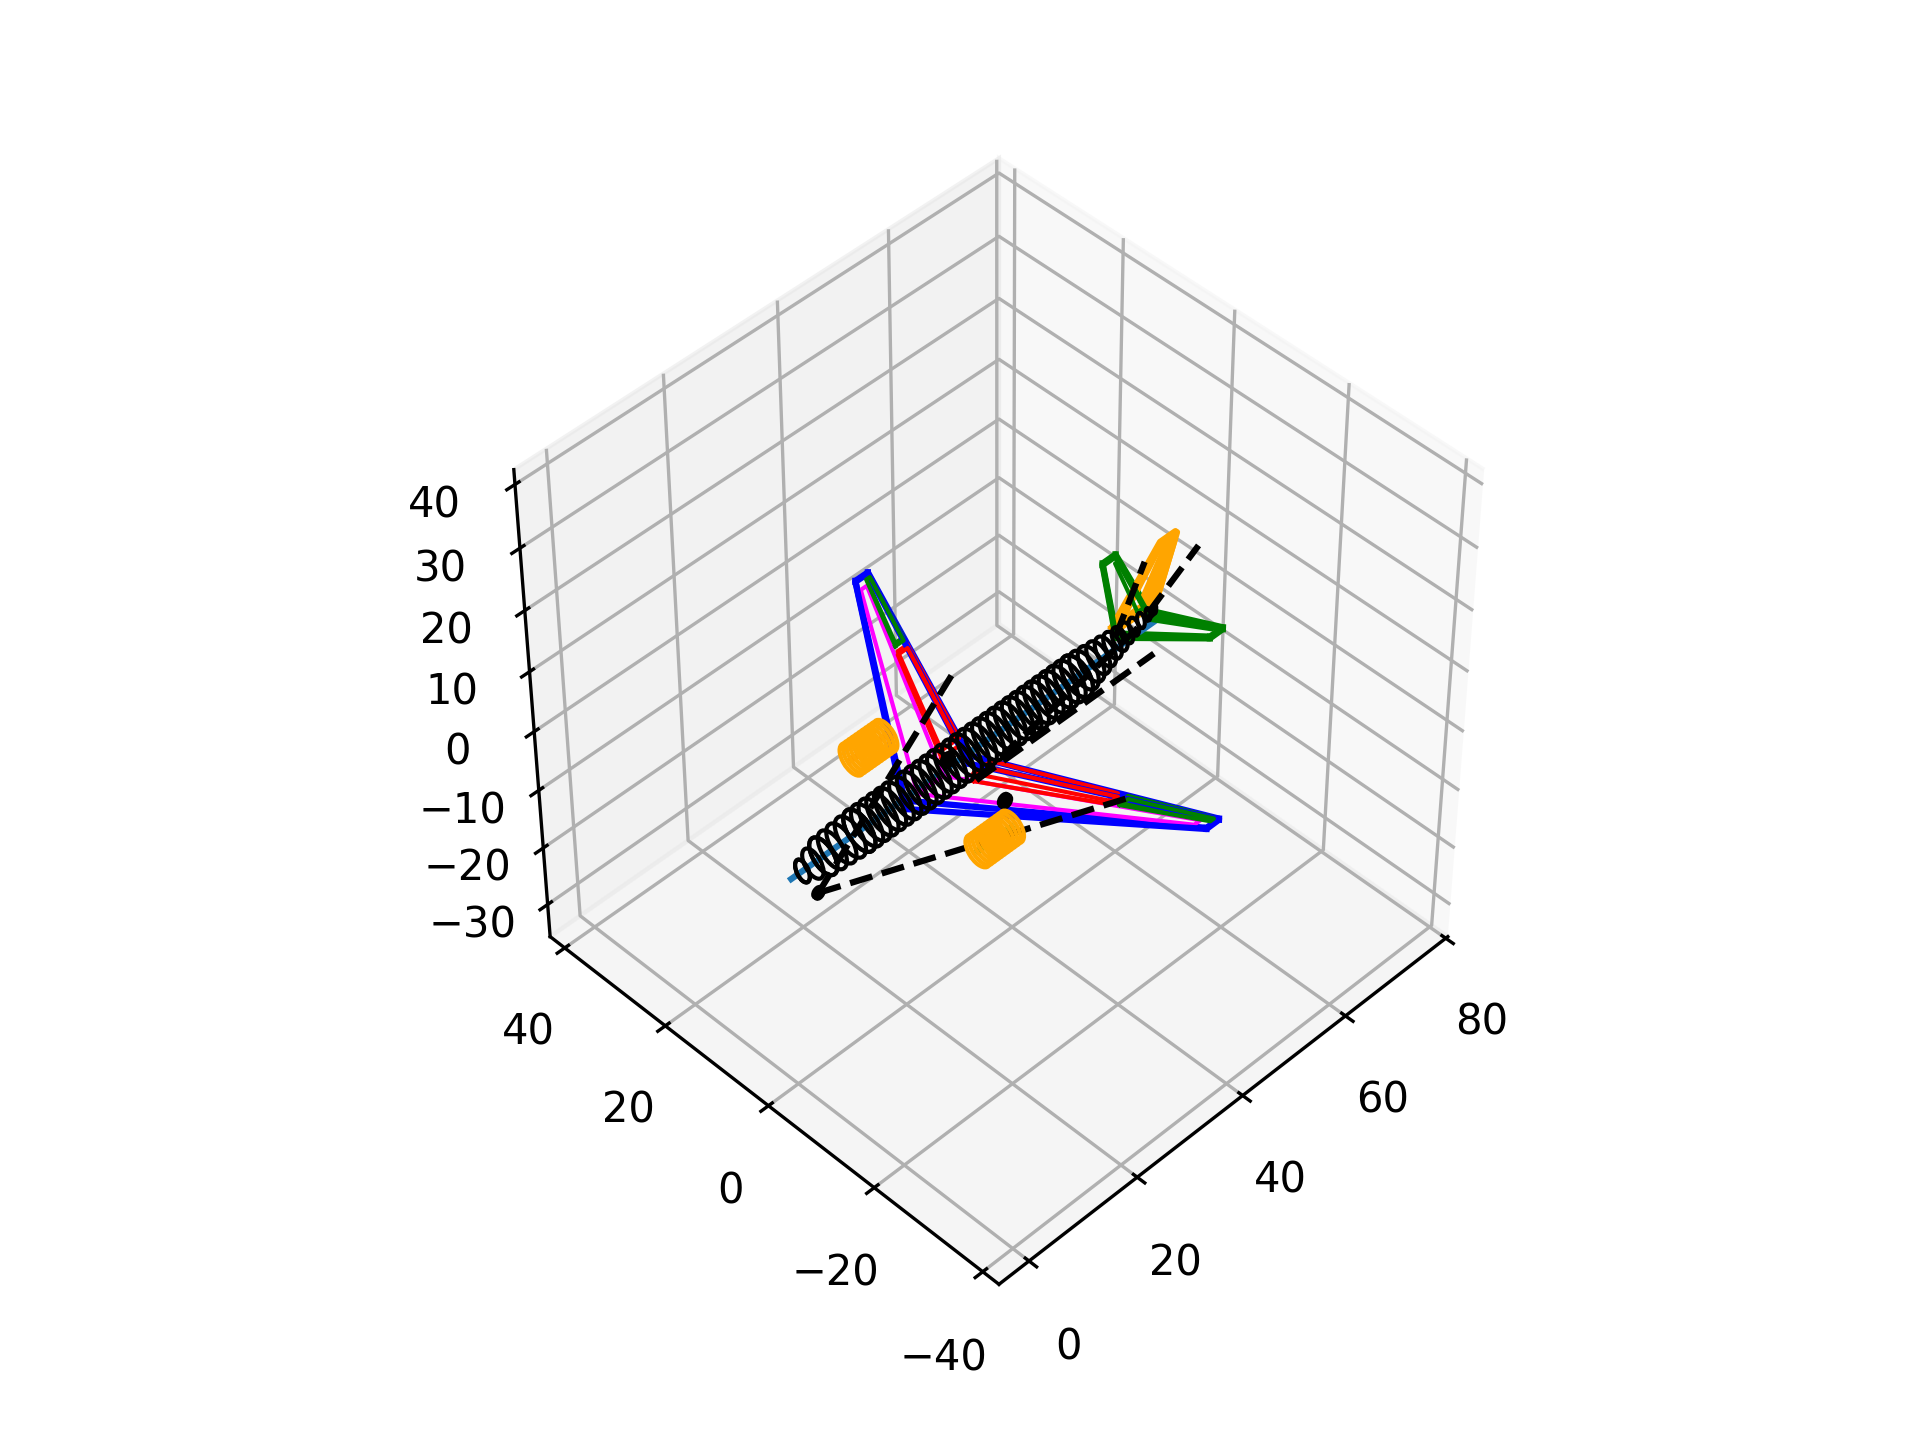
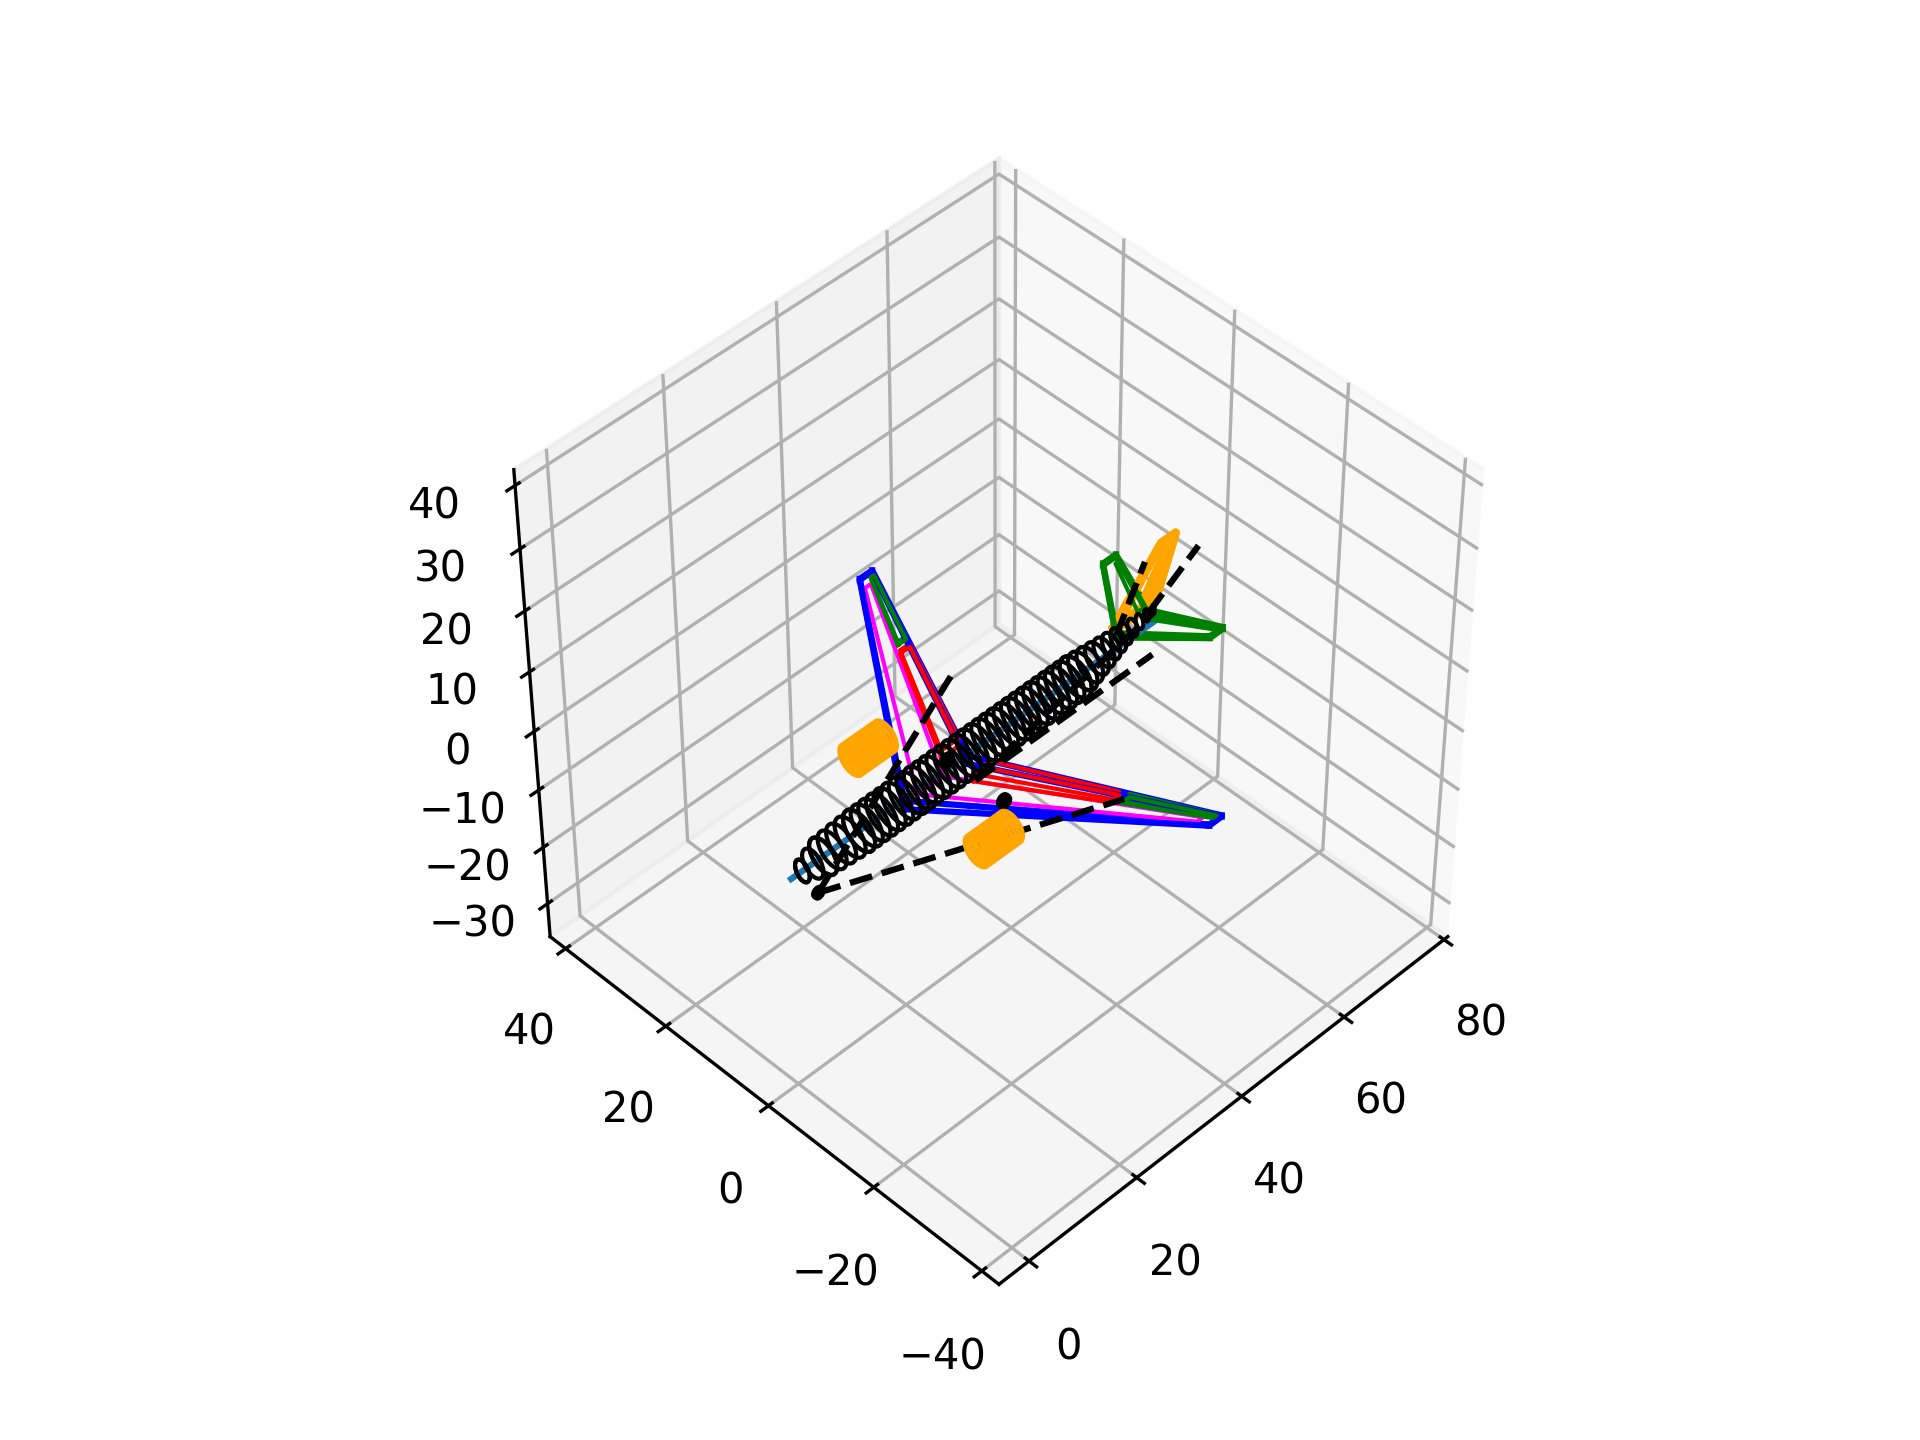
Mudei o k_korn de 0,93 para 0,95, e o enflechamento de 31,92° para 34°

diff --git a/designTool/W0_test_script.py b/designTool/W0_test_script.py
@@ -1,166 +1,156 @@
-# Sample script on how to use the weight function from designTool.
-# Remember to save this script in the same directory as designTool.py
+# Script de estimativa de peso W0 para a aeronave de projeto.
 
 # IMPORTS
 from designTool.standard_airplane import standard_airplane
 from designTool.geometry import geometry
 from designTool.weight import weight
-from designTool.constants import gravity
+from designTool.constants import gravity, nm2m, ft2m
 import numpy as np
-import pprint
 
-# Load a sample case already defined in designTools.py:
+# Load airplane
 airplane = standard_airplane('my_airplane')
 
 # Execute the geometry function
 geometry(airplane)
 
 # Guess values for initial iteration
-W0_guess = 467500.00000000000000
-T0_guess = 140250.00000000000000
+W0_guess = 2746800.00000000000000
+T0_guess = 748840.00000000000000
 
 # Execute the weight estimation
 W0, W_empty, W_fuel, W_cruise = weight(W0_guess, T0_guess, airplane)
 
-# Print results: pesos em N e kgf arredondados (inteiros), % do W0 inteiro
-def _int_w(x):
-    return int(round(float(x)))
+# ============================================================
+# 1. DESCRICAO DA MISSAO
+# ============================================================
+inp = airplane['inputs']
 
-
-def _pct_w0_str(w_part, w0_ref):
-    return f"{100.0 * float(w_part) / float(w0_ref):.1f}"
-
-
-def _fmt_N_kgf_pct(W, W0_ref):
-    fw = float(W)
-    w0 = float(W0_ref)
-    w_n = _int_w(fw)
-    w_kgf = _int_w(fw / gravity)
-    return f"{w_n} N  ({w_kgf} kgf)  [{_pct_w0_str(fw, w0)}% do W0]"
-
-
-print("W0 = ", _fmt_N_kgf_pct(W0, W0))
-print("W_empty = ", _fmt_N_kgf_pct(W_empty, W0))
-print("W_fuel = ", _fmt_N_kgf_pct(W_fuel, W0))
-print("W_cruise = ", _fmt_N_kgf_pct(W_cruise, W0))
+print("=" * 70)
+print("  1. DESCRICAO DA MISSAO DE PROJETO")
+print("=" * 70)
 print()
-wempty_pesos_int = {
-    k: (_int_w(v) if k.startswith("W_") else v)
-    for k, v in airplane["empty_weight"].items()
+print("  Tipo de aeronave       : Transporte de passageiros")
+print("  Configuracao           : 320 assentos em 3 classes")
+print("  Peso por passageiro    : 100 kg (incluindo bagagem)")
+print("  Numero de motores      : %d" % inp['n_engines'])
+print()
+print("  --- Missao de Projeto ---")
+print("  Alcance de cruzeiro    : %.0f nmi" % (inp['range_cruise'] / nm2m))
+print("  Mach de cruzeiro       : %.2f" % inp['Mach_cruise'])
+print("  Altitude de cruzeiro   : %.0f ft (%.0f m)" % (inp['altitude_cruise'] / ft2m, inp['altitude_cruise']))
+print("  Mach maximo operacional: %.2f" % inp['Mach_maxcruise'])
+print("  Altitude max cruzeiro  : %.0f ft (%.0f m)" % (inp['altitude_maxcruise'] / ft2m, inp['altitude_maxcruise']))
+print()
+print("  --- Decolagem ---")
+print("  Comprimento de pista   : %.0f m" % inp['distance_takeoff'])
+print("  Altitude               : %.0f m (nivel do mar)" % inp['altitude_takeoff'])
+print("  Delta ISA              : %.1f C (condicoes ISA)" % inp['deltaISA_takeoff'])
+print()
+print("  --- Reservas ---")
+print("  Tempo de espera (loiter): %.0f min" % (inp['time_loiter'] / 60))
+print("  Altitude de loiter      : %.0f ft (%.0f m)" % (inp['altitude_loiter'] / ft2m, inp['altitude_loiter']))
+print("  Cruzeiro alternativo    : %.0f nmi" % (inp['range_altcruise'] / nm2m))
+print("  Mach alternativo        : %.2f" % inp['Mach_altcruise'])
+print("  Altitude alternativa    : %.0f m (%.0f ft)" % (inp['altitude_altcruise'], inp['altitude_altcruise'] / ft2m))
+print()
+print("  --- Pesos de Entrada ---")
+print("  W_payload (320x100 kg) : %.0f N (%.0f kg)" % (inp['W_payload'], inp['W_payload'] / gravity))
+print("  W_crew                 : %.0f N (%.0f kg)" % (inp['W_crew'], inp['W_crew'] / gravity))
+print()
+
+# ============================================================
+# 2. BREAKDOWN DE PESO
+# ============================================================
+ew = airplane['empty_weight']
+
+print("=" * 70)
+print("  2. BREAKDOWN DE PESO DA AERONAVE")
+print("=" * 70)
+print()
+print("  %-28s  %12s  %12s  %8s" % ("Componente", "Peso [N]", "Peso [kg]", "% MTOW"))
+print("  " + "-" * 64)
+
+components = [
+    ("Asa (W_w)", ew['W_w']),
+    ("Empenagem horizontal (W_h)", ew['W_h']),
+    ("Empenagem vertical (W_v)", ew['W_v']),
+    ("Fuselagem (W_f)", ew['W_f']),
+    ("Trem de nariz (W_nlg)", ew['W_nlg']),
+    ("Trem principal (W_mlg)", ew['W_mlg']),
+    ("Motores instalados (W_eng)", ew['W_eng']),
+    ("Demais sistemas (W_allelse)", ew['W_allelse']),
+]
+
+for name, val in components:
+    print("  %-28s  %12.1f  %12.1f  %7.2f%%" % (name, val, val / gravity, val / W0 * 100))
+
+print("  " + "-" * 64)
+print("  %-28s  %12.1f  %12.1f  %7.2f%%" % ("PESO VAZIO (W_empty)", W_empty, W_empty / gravity, W_empty / W0 * 100))
+print("  %-28s  %12.1f  %12.1f  %7.2f%%" % ("COMBUSTIVEL (W_fuel)", W_fuel, W_fuel / gravity, W_fuel / W0 * 100))
+print("  %-28s  %12.1f  %12.1f  %7.2f%%" % ("PAYLOAD (W_payload)", inp['W_payload'], inp['W_payload'] / gravity, inp['W_payload'] / W0 * 100))
+print("  %-28s  %12.1f  %12.1f  %7.2f%%" % ("TRIPULACAO (W_crew)", inp['W_crew'], inp['W_crew'] / gravity, inp['W_crew'] / W0 * 100))
+print("  " + "-" * 64)
+print("  %-28s  %12.1f  %12.1f  %7.2f%%" % ("MTOW (W0)", W0, W0 / gravity, 100.0))
+print()
+
+# ============================================================
+# 3. CONSUMO DE COMBUSTIVEL NAS ETAPAS DA MISSAO
+# ============================================================
+mf = airplane['fuel_weight']['Mf_hist']
+ld = airplane['fuel_weight']['LD_hist']
+tsfc = airplane['fuel_weight']['C_hist']
+trapped = airplane['fuel_weight']['trapped_fuel_factor']
+
+phases = ['start', 'taxi', 'takeoff', 'climb', 'cruise', 'descent', 'altcruise', 'loiter', 'landing']
+phase_names = {
+    'start': 'Partida dos motores',
+    'taxi': 'Taxi',
+    'takeoff': 'Decolagem',
+    'climb': 'Subida',
+    'cruise': 'Cruzeiro (8000 nmi)',
+    'descent': 'Descida',
+    'altcruise': 'Cruzeiro alternativo (200 nmi)',
+    'loiter': 'Espera / Loiter (45 min)',
+    'landing': 'Pouso',
 }
-print("Wempty_dict = " + pprint.pformat(wempty_pesos_int))
-w0f = float(W0)
-empty_w_kgf_pct = {
-    k: f"{_int_w(float(v) / gravity)} kgf  [{_pct_w0_str(v, w0f)}% do W0]"
-    for k, v in airplane["empty_weight"].items()
-    if k.startswith("W_")
-}
-print("Wempty_dict (componentes em kgf e % do W0) = " + pprint.pformat(empty_w_kgf_pct))
+
+print("=" * 70)
+print("  3. CONSUMO DE COMBUSTIVEL POR ETAPA DA MISSAO")
+print("=" * 70)
 print()
-fuel_w = airplane["fuel_weight"]
-# C_hist no modulo: 1/s; no terminal tambem 1/h (x 3600)
-c_hist_1_per_s = {k: float(v) for k, v in fuel_w["C_hist"].items()}
-wfuel_display = {
-    "Mf_hist": fuel_w["Mf_hist"],
-    "LD_hist": fuel_w["LD_hist"],
-    "C_hist (1/s)": c_hist_1_per_s,
-    "C_hist (1/h)": {k: v * 3600.0 for k, v in c_hist_1_per_s.items()},
-    "trapped_fuel_factor": fuel_w["trapped_fuel_factor"],
-}
-print(
-    "Wfuel_dict (C_hist original 1/s e equivalente 1/h) = "
-    + pprint.pformat(wfuel_display)
-)
+print("  Perfil da missao:")
+print("  partida -> taxi -> decolagem -> subida -> cruzeiro -> descida")
+print("          -> cruzeiro alternativo -> loiter -> pouso")
 print()
+print("  %-32s  %10s  %12s  %12s" % ("Etapa", "Mf", "W_inicio [kg]", "Comb. [kg]"))
+print("  " + "-" * 70)
 
-# Consumo de combustível por etapa a partir de Mf_hist (mesma ordem que em weight.py)
-MF_ORDER = (
-    "start",
-    "taxi",
-    "takeoff",
-    "climb",
-    "cruise",
-    "descent",
-    "altcruise",
-    "loiter",
-    "landing",
-)
+W_start = W0
+Mf_total = 1.0
 
+for phase in phases:
+    frac = mf[phase]
+    W_end = W_start * frac
+    fuel_burned = (W_start - W_end) / gravity
+    Mf_total *= frac
+    print("  %-32s  %10.6f  %12.1f  %12.1f" % (
+        phase_names[phase], frac, W_start / gravity, fuel_burned))
+    W_start = W_end
 
-def combustivel_por_etapa_kgf(W0_N, Mf_hist):
-    """
-    Em cada etapa k, Mf_k = W_fim_k / W_início_k (fração de peso remanescente).
-
-    P_prev = produto dos Mf de todas as etapas anteriores a k (1 se k é a primeira).
-    W_início_k = W0 * P_prev  [N]
-    ΔW_k = W_início_k * (1 - Mf_k)  [N]  (peso de combustível consumido na etapa)
-    kgf_k = ΔW_k / g
-    """
-    rows = []
-    product_prev = 1.0
-    w0 = float(W0_N)
-    for name in MF_ORDER:
-        mf = float(Mf_hist[name])
-        w_inicio = w0 * product_prev
-        delta_w = w_inicio * (1.0 - mf)
-        kgf = delta_w / gravity
-        rows.append(
-            {
-                "etapa": name,
-                "Mf_k": mf,
-                "P_prev": product_prev,
-                "W_inicio_N": w_inicio,
-                "delta_W_N": delta_w,
-                "delta_kgf": kgf,
-            }
-        )
-        product_prev *= mf
-    return rows
-
-
-# Missao com MTOW fixo (kgf -> N) e Mf iguais à referencia, exceto cruzeiro = 0.9532
-W0_MTOW_KGF = 41565
-W0_mission = float(W0_MTOW_KGF) * gravity
-mf_ref = {k: float(airplane["fuel_weight"]["Mf_hist"][k]) for k in MF_ORDER}
-mf_mission = {**mf_ref, "cruise": 0.9532}
-rows_mf = combustivel_por_etapa_kgf(W0_mission, mf_mission)
-w0_float = W0_mission
-print(
-    f"Consumo por etapa (MTOW = {W0_MTOW_KGF} kgf = {_int_w(W0_mission)} N; "
-    "Mf por etapa iguais à missao de referencia do weight(), cruzeiro = 0.9532):"
-)
-print("Mf_mission = " + pprint.pformat(mf_mission))
-print(
-    "(Soma dW das etapas = W0*(1-prod(Mf)). Combustivel preso = 6% dessa soma.)\n"
-)
-for r in rows_mf:
-    d_w = r["delta_W_N"]
-    print(
-        f"  {r['etapa']:<10}  Mf={r['Mf_k']:.6f}  "
-        f"P_prev={r['P_prev']:.6f}  W_inicio={_int_w(r['W_inicio_N'])} N  "
-        f"dW={_int_w(d_w)} N  ({_int_w(r['delta_kgf'])} kgf)  "
-        f"[{_pct_w0_str(d_w, w0_float)}% do W0]"
-    )
-soma_delta = sum(r["delta_W_N"] for r in rows_mf)
-mf_total = float(np.prod([float(mf_mission[k]) for k in MF_ORDER]))
-trapped_frac = 0.06
-trapped_N = trapped_frac * soma_delta
+print("  " + "-" * 70)
+fuel_mission = (1 - Mf_total) * W0 / gravity
+fuel_trapped = (trapped - 1) * (1 - Mf_total) * W0 / gravity
 print()
-print(
-    f"  Soma dW (etapas) = {_int_w(soma_delta)} N  "
-    f"({_int_w(soma_delta / gravity)} kgf)  "
-    f"[{_pct_w0_str(soma_delta, w0_float)}% do W0]"
-)
-print(
-    f"  W0*(1-prod(Mf))  = {_int_w(w0_float * (1.0 - mf_total))} N  (checagem)"
-)
-print(
-    f"  Combustivel preso (6% da soma dW) = {_int_w(trapped_N)} N  "
-    f"({_int_w(trapped_N / gravity)} kgf)  "
-    f"[{_pct_w0_str(trapped_N, w0_float)}% do W0]"
-)
-print(
-    f"  Total combustivel (etapas + preso) = {_int_w(soma_delta + trapped_N)} N  "
-    f"({_int_w((soma_delta + trapped_N) / gravity)} kgf)  "
-    f"[{_pct_w0_str(soma_delta + trapped_N, w0_float)}% do W0]"
-)
+print("  Fracao de massa total (Mf)          : %.6f" % Mf_total)
+print("  Combustivel da missao               : %.1f kg" % fuel_mission)
+print("  Combustivel preso (fator %.2f)      : %.1f kg" % (trapped, fuel_trapped))
+print("  Combustivel total (W_fuel)          : %.1f kg" % (W_fuel / gravity))
+print()
+print("  --- Eficiencia aerodinamica e TSFC por fase ---")
+print("  %-32s  %10s  %16s" % ("Etapa", "L/D", "TSFC [1/s]"))
+print("  " + "-" * 60)
+for phase in ['cruise', 'altcruise', 'loiter']:
+    print("  %-32s  %10.4f  %16.10f" % (phase_names[phase], ld[phase], tsfc[phase]))
+print()
+print("  W_cruise (peso no inicio do cruzeiro): %.1f N (%.1f kg)" % (W_cruise, W_cruise / gravity))
+print()

diff --git a/designTool/designTool/standard_airplane.py b/designTool/designTool/standard_airplane.py
@@ -153,7 +153,7 @@ def standard_airplane(name):
                     'S_w' : 452.89, # Wing area [m2]
                     'AR_w' : 9.26,  # Wing aspect ratio
                     'taper_w' : 0.2, # Wing taper ratio
-                    'sweep_w' : 31.91*np.pi/180, # Wing sweep [rad]
+                    'sweep_w' : 34*np.pi/180, # Wing sweep [rad]
                     'dihedral_w' : 4.57*np.pi/180, # Wing dihedral [rad]
                     'xr_w' : 20.23, # (29.09) Longitudinal position of the wing (with respect to the fuselage nose) [m]
                     'zr_w' : -1.04, # Vertical position of the wing (with respect to the fuselage nose) [m]
@@ -213,7 +213,7 @@ def standard_airplane(name):
                     'b_tank_b_w_end' : 0.95, # NSEI Fraction of the wing semi-span where fuel tank ends
                     
                     'clmax_w' : 1.8, # NSEI Maximum lift coefficient of wing airfoil
-                    'k_korn' : 0.93, # NSEI Airfoil technology factor for Korn equation (wave drag)
+                    'k_korn' : 0.95, # NSEI Airfoil technology factor for Korn equation (wave drag)
         
                     'flap_type' : 'double slotted',  # NSEI Flap type
                     'c_flap_c_wing' : 0.30, # NSEI Fraction of the wing chord occupied by flaps
@@ -250,8 +250,8 @@ def standard_airplane(name):
                     'time_loiter' : 45*60, # Loiter time [s]
                     'altitude_loiter' : 1500*ft2m, # Loiter time [s] - DOI: 10.2514/6.2025-3572
                     
-                    'altitude_altcruise' : 4572, # Alternative cruise altitude [m]
-                    'Mach_altcruise' : 0.8, # Alternative cruise Mach number
+                    'altitude_altcruise' : 7620, # Alternative cruise altitude [m]
+                    'Mach_altcruise' : 0.78, # Alternative cruise Mach number
                     'range_altcruise' : 200*nm2m, # Alternative cruise range [m]
                     
                     'W_payload' : 32000*gravity, # Payload weight [N]